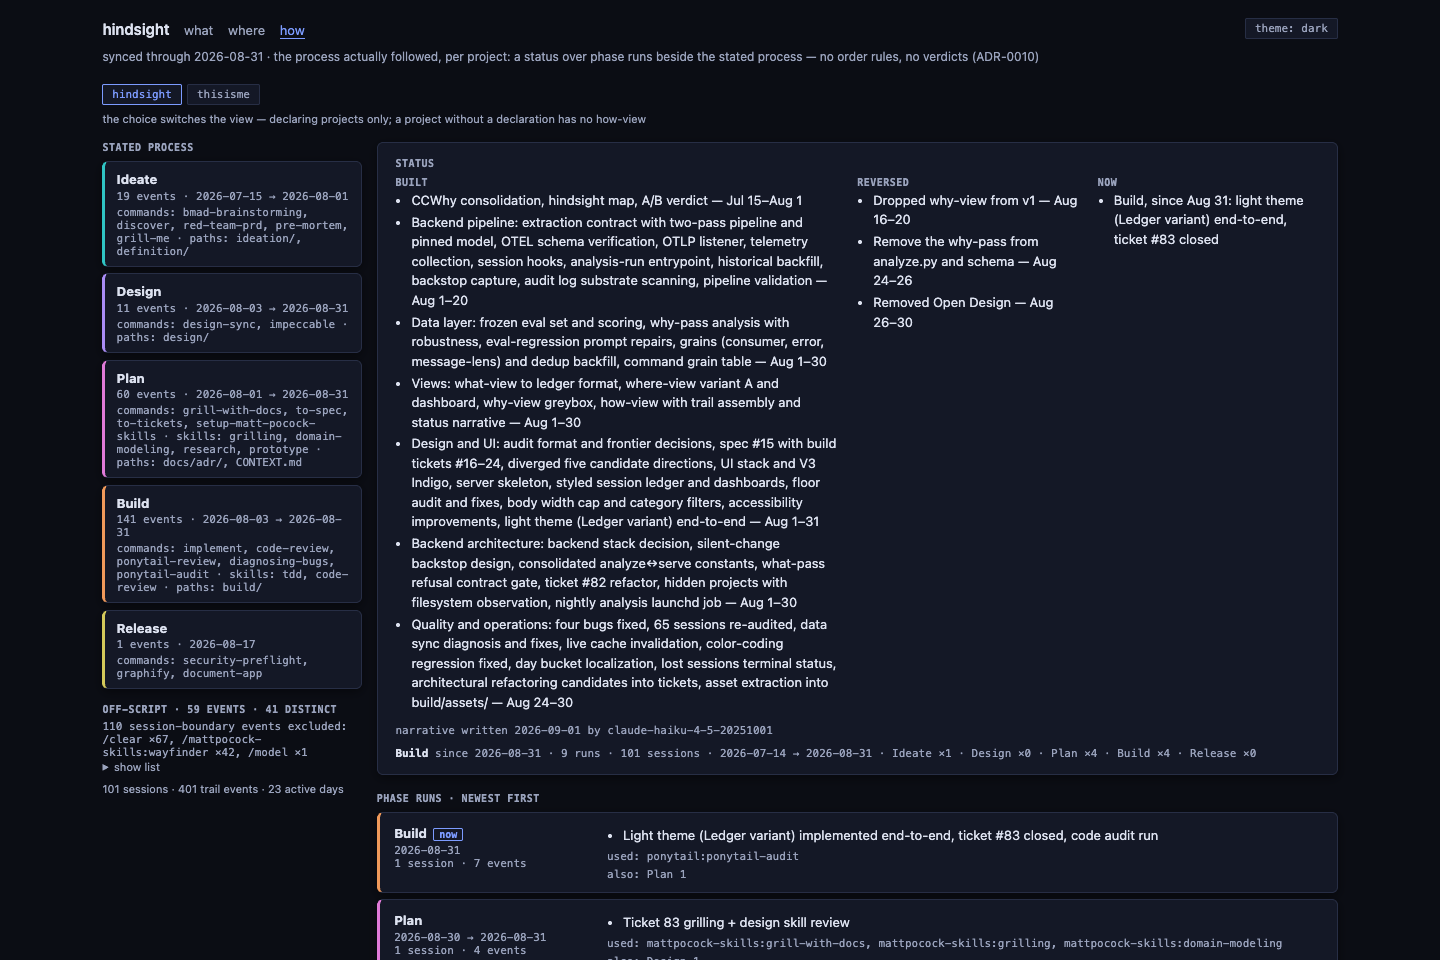
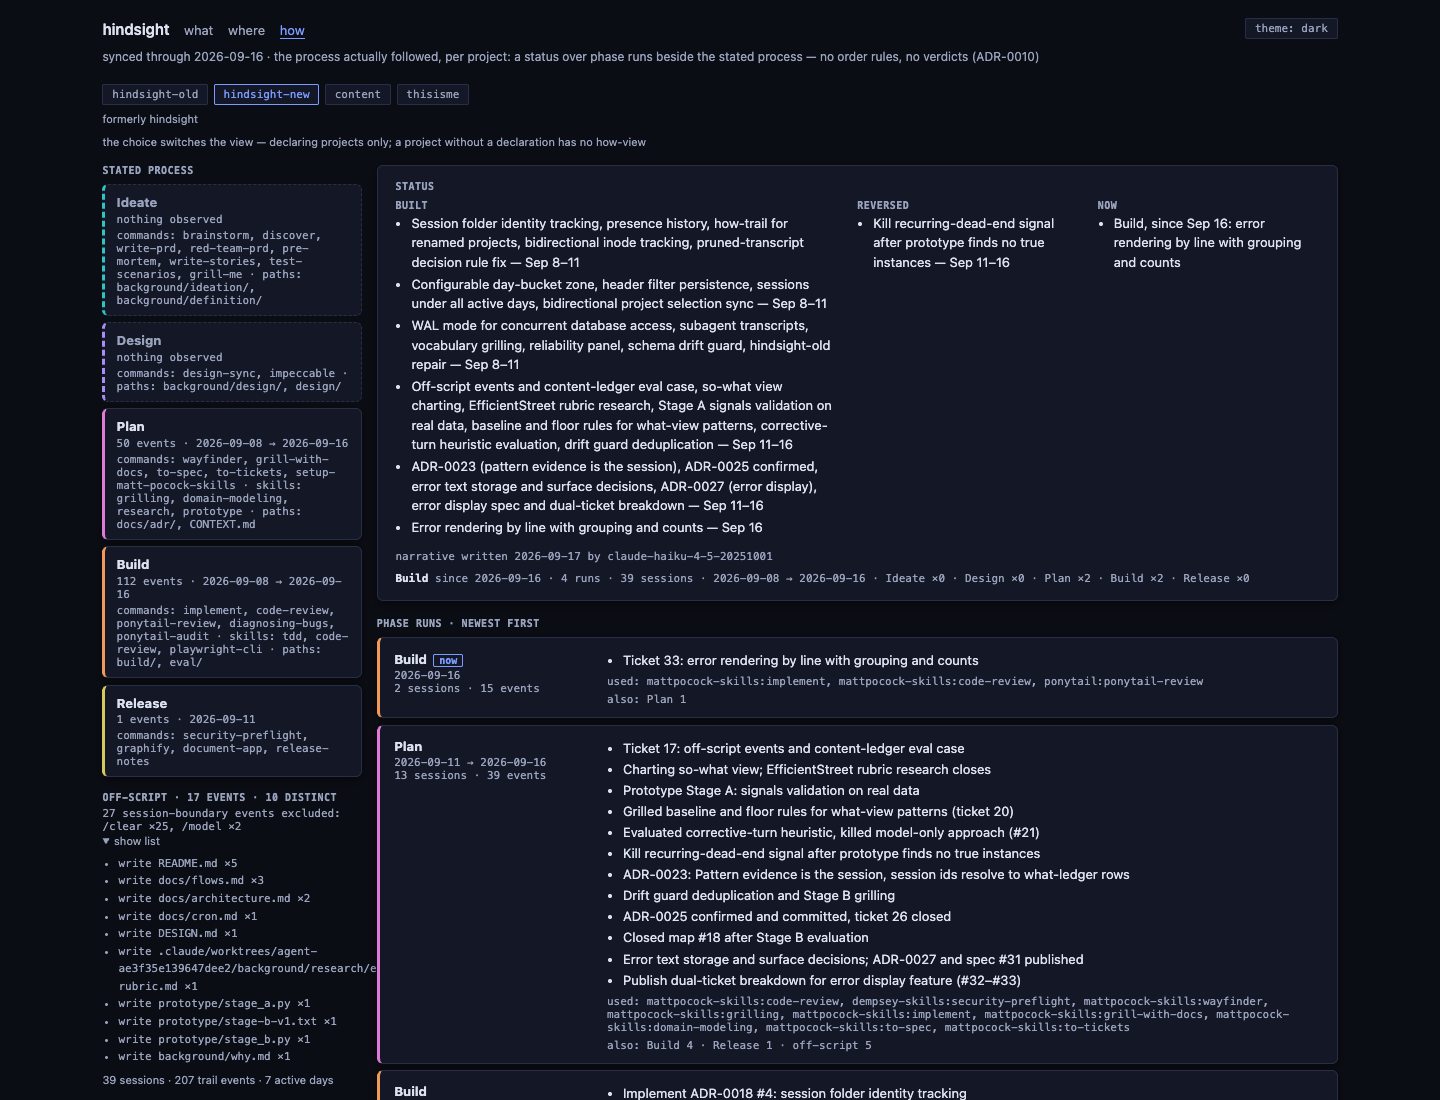
Screenshots retaken from the shipped views: what, where and how at 2026-09-16, hindsight-new alone in view
All three at 1440 wide, dark theme pinned, the hindsight-new project chip
the only one active and the 14-day window. The where shot carries the
category chips' error counts (#33); the how shot has the off-script block
opened so its list, the run tallies and the narrative's off-script line
are visible (#17), at 1100 tall to hold the list. Per-image check done on
each: no home paths, key shapes or transcript filenames; every session
title in the what shot is this repo's own. The README's how paragraph
states how off-script work is shown.

diff --git a/README.md b/README.md
@@ -14,9 +14,9 @@ Every error count in the league has the errors behind it. Opening a consumer's r
 
 ![A consumer row opened in the league, one project in view: three errors grouped by error line, the category chips carrying their error counts](docs/screenshots/errors.png)
 
-**How — the process trail.** One project's declared process beside what actually happened: phase runs, a model-written status narrative, and the mechanical trail behind it.
+**How — the process trail.** One project's declared process beside what actually happened: phase runs, a model-written status narrative, and the mechanical trail behind it. Work that matches no declared stage is off-script, and it is shown rather than hidden: listed beside the stated process, tallied on every run, and forming runs of its own when nothing declared was going on.
 
-![The how view: declared process beside the phase-run trail](docs/screenshots/how.png)
+![The how view: declared process beside the phase-run trail, with the off-script events listed](docs/screenshots/how.png)
 
 ## What it is for
 
